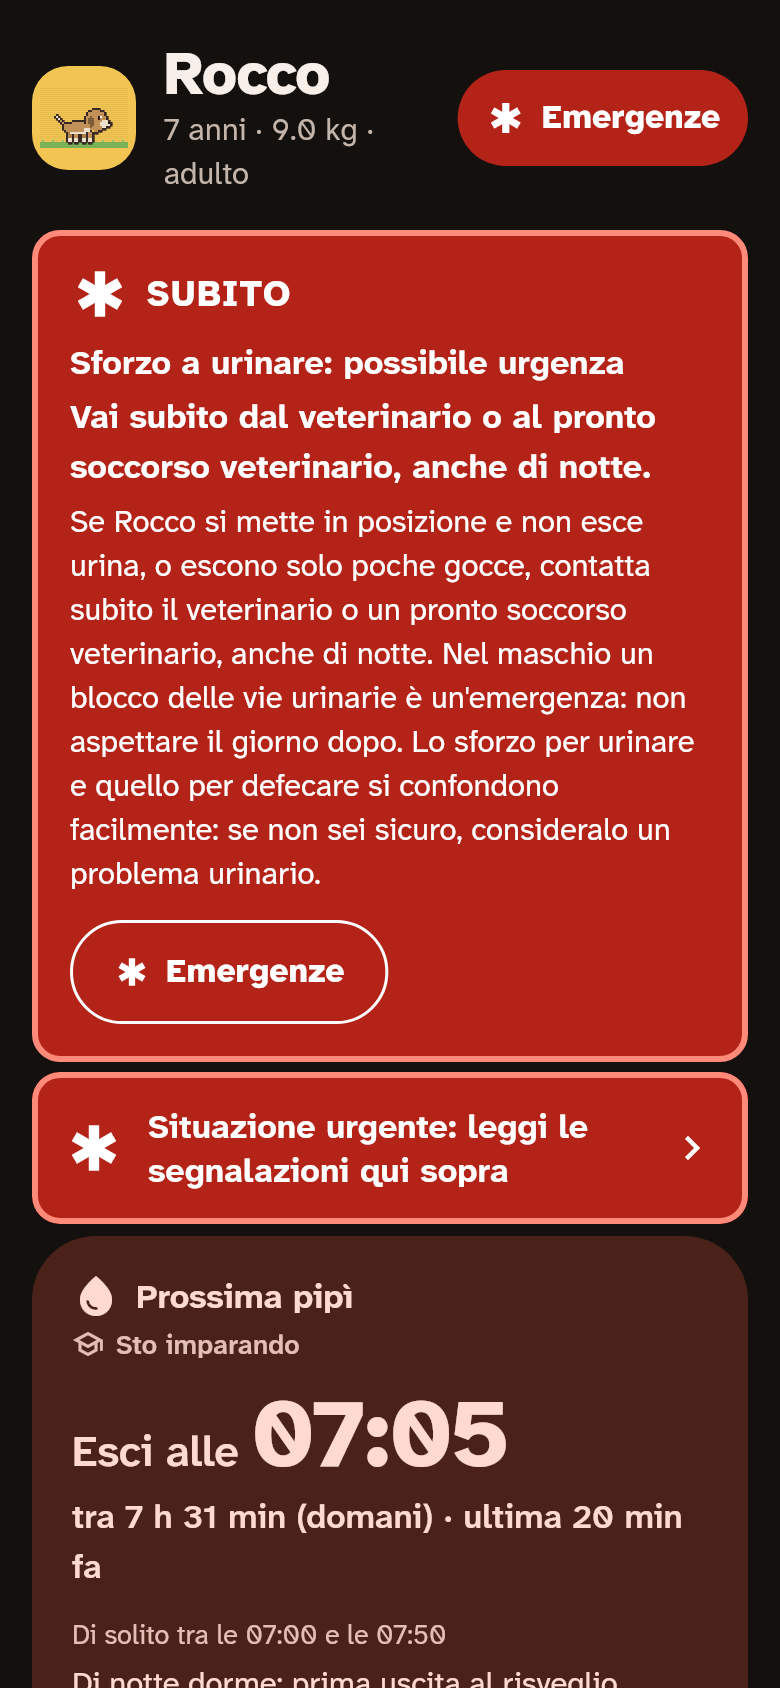
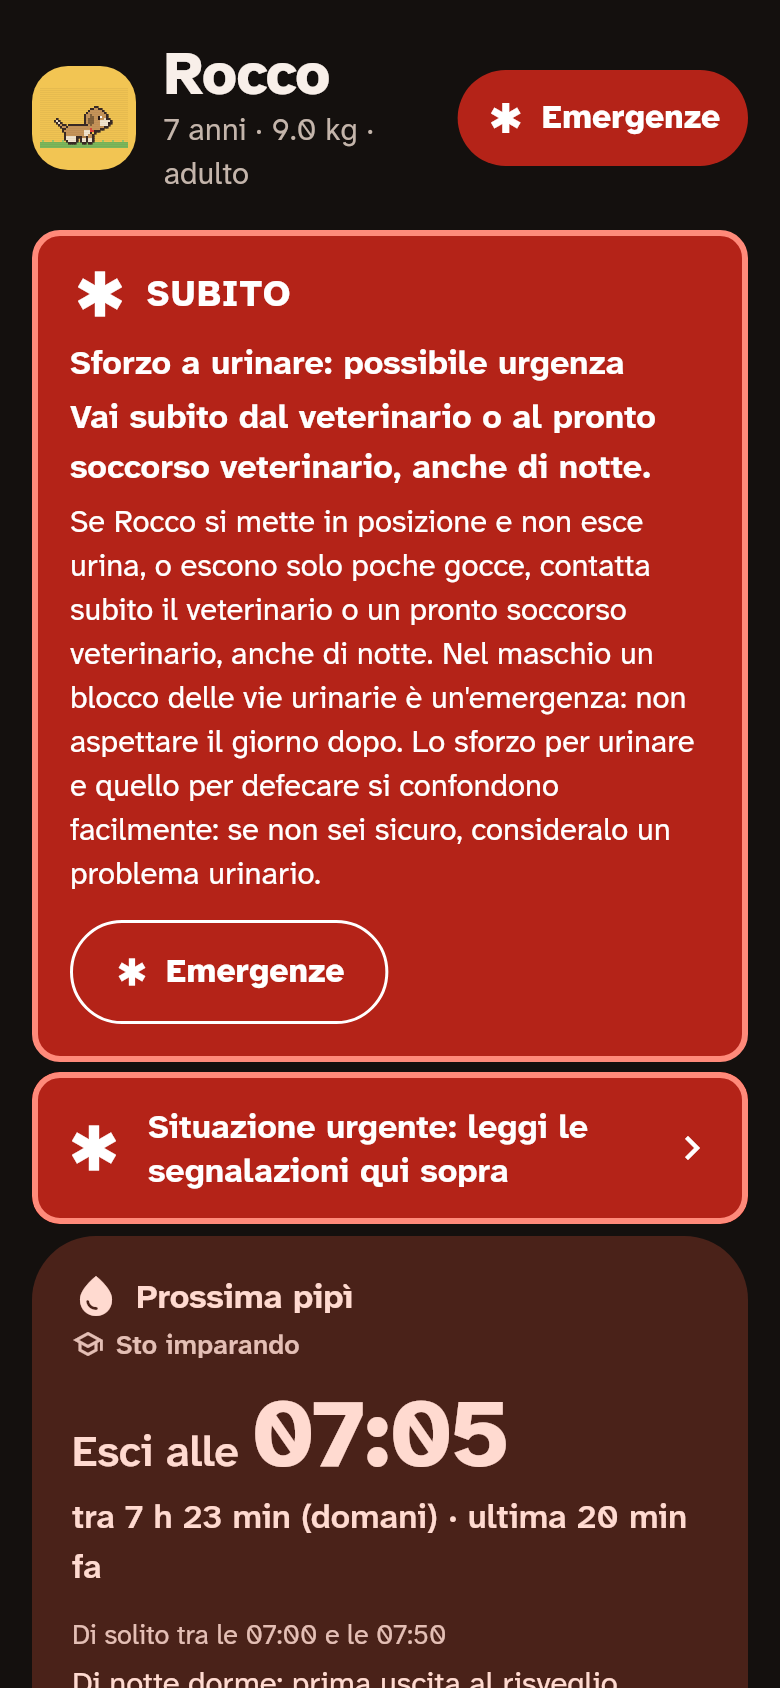
Tamagotchi: nella Home niente nuvoletta doppia quando la scena ha già l'oggetto
Cuori, porta, ciotola e croce del veterinario sono nella scena; la nuvoletta
resta per sonno, scadenze e «tieni d'occhio».

Claude-Session: https://claude.ai/code/session_01NAXe8H7eZJo779qoyzjvSp

Changed region(s): [[0.2462, 0.8934, 0.8923, 0.9242], [0.0615, 0.0616, 0.1231, 0.0924]]

diff --git a/lib/ui/avatar.dart b/lib/ui/avatar.dart
@@ -777,6 +777,12 @@ class PetMood {
   }
 }
 
+bool _sceneHasProp(Pose p) =>
+    p == Pose.happy ||
+    p == Pose.waiting ||
+    p == Pose.hungry ||
+    p == Pose.concerned;
+
 /// Schermo del compagno per la pagina Oggi.
 class PetScreen extends StatelessWidget {
   const PetScreen({
@@ -890,7 +896,9 @@ class PetScreen extends StatelessWidget {
                 ),
               ),
             ),
-          if (mood.bubble != null)
+          // Nuvoletta solo dove la scena non ha già il suo oggetto (cuori,
+          // porta, ciotola, croce del veterinario).
+          if (mood.bubble != null && !_sceneHasProp(mood.pose))
             Positioned(
               right: 14,
               top: 10,
